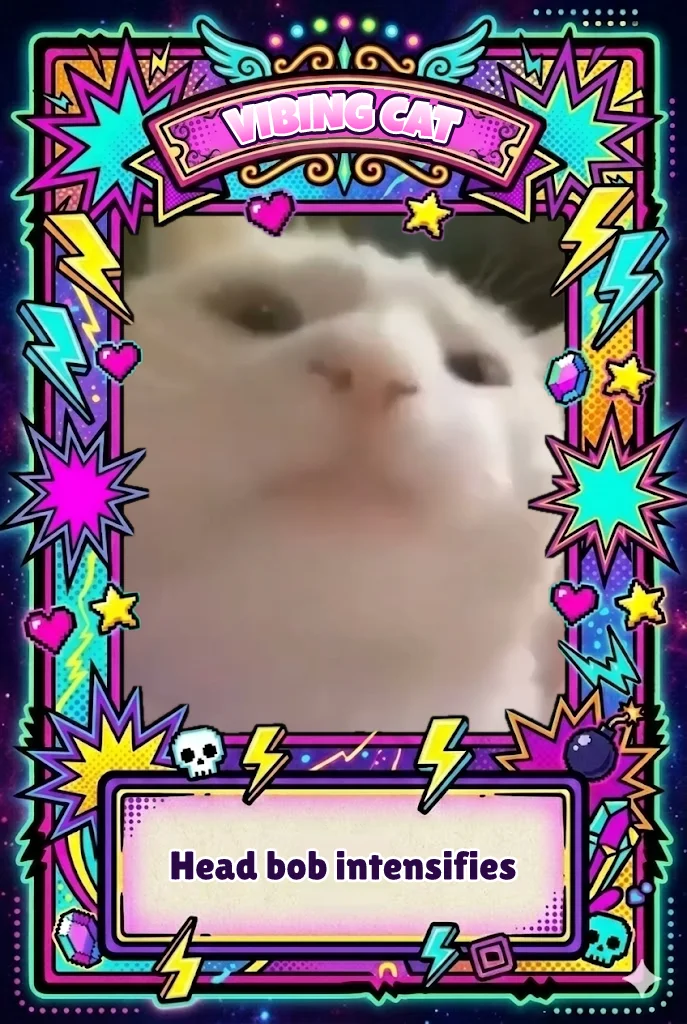
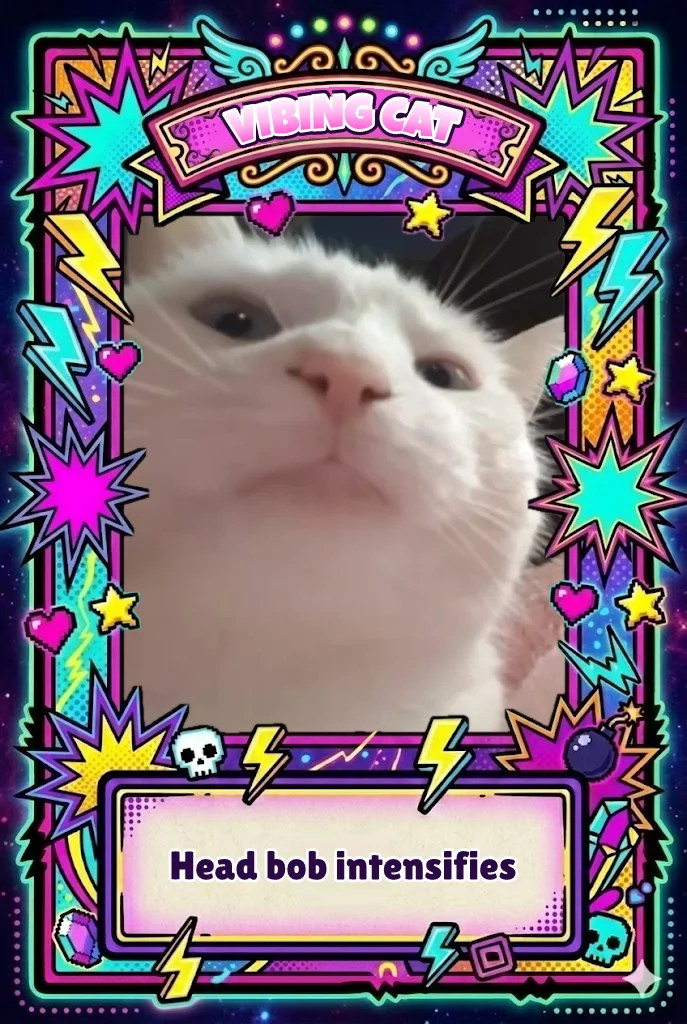
Checkpoint: rebuilt cards and credits for the flagged images
Work in progress from the image pass: rebuilt card images for the
re-cropped Bernie's Mittens, Coffin Dance, Vibing Cat and Ballerino
Lololo, the Lockdown Lore pack wrapper, and research notes and
attributions in the sets' CREDITS.md. Only the "art" descriptions in
set.json changed; set locks still hold.

Claude-Session: https://claude.ai/code/session_019EguSi8fJWokM3LRyjoEkU

Changed region(s): [[0.1834, 0.1875, 0.8253, 0.7188], [0.3362, 0.4688, 0.3668, 0.5]]

diff --git a/src/content/sets/gen-alpha-uprising/CREDITS.md b/src/content/sets/gen-alpha-uprising/CREDITS.md
@@ -6,16 +6,16 @@ the frame, title and caption. All rights stay with the owners listed below. The 
 
 | Card | Source page | Image URL | Creator / owner | Notes |
 | --- | --- | --- | --- | --- |
-| Sad Hamster (`sad-hamster`) | https://knowyourmeme.com/memes/sad-hamster | https://i.kym-cdn.com/entries/icons/original/000/048/516/Screenshot_2024-02-20_at_10.43.43_AM.jpg | The hamster is Alto, owned by Instagram user monyo_melo. The big-eyed edit and the viral video are by TikToker afexix (Feb 8, 2024) | KYM's main image, with no text. It's a screenshot of a soft video frame, so the card is slightly blurry. |
-| Side Eye Cat (`side-eye-cat`) | https://knowyourmeme.com/memes/mr-fresh-side-eye-cat | https://i.kym-cdn.com/entries/icons/original/000/048/010/side_eye_cat.jpg | Mr. Fresh, a stray on the Cat Feeder Camera livestream in the Chinese app Hello Street Cat. The first clip was posted by TikToker @catzoo1 (Oct 2023) | KYM's main image, with no text, taken from a low-res livestream. This card replaces Bombastic Side Eye (see below) and keeps its catchphrase as the caption. |
+| Sad Hamster (`sad-hamster`) | https://knowyourmeme.com/memes/sad-hamster | https://i.kym-cdn.com/entries/icons/original/000/048/516/Screenshot_2024-02-20_at_10.43.43_AM.jpg | The hamster is Alto, owned by Instagram user monyo_melo. The big-eyed edit and the viral video are by TikToker afexix (Feb 8, 2024) | KYM's main image, with no text. It's a screenshot of a soft video frame, so the card is slightly blurry. Rechecked Oct 12, 2026: afexix's original TikTok has only a 576×384 cover, so I kept this one. |
+| Side Eye Cat (`side-eye-cat`) | https://knowyourmeme.com/memes/mr-fresh-side-eye-cat | https://i.kym-cdn.com/entries/icons/original/000/048/010/side_eye_cat.jpg | Mr. Fresh, a stray on the Cat Feeder Camera livestream in the Chinese app Hello Street Cat. The first clip was posted by TikToker @catzoo1 (Oct 2023) | KYM's main image, with no text, taken from a low-res livestream. This card replaces Bombastic Side Eye (see below) and keeps its catchphrase as the caption. Rechecked Oct 12, 2026: the 1920×1080 cover of @catzoo1's TikTok shows a different moment (the cat facing the camera, no side-eye), so I kept this one. |
 | Pesto the Penguin (`pesto-the-penguin`) | https://knowyourmeme.com/memes/pesto-the-penguin | https://i.kym-cdn.com/entries/icons/original/000/051/466/pesto_the_penguin.jpg | Pesto lives at SEA LIFE Melbourne Aquarium. The photographer isn't credited on KYM (probably the aquarium or press) | KYM's main photo, cropped to Pesto's head and body. Searches found no trademark claims or takedowns (unlike Moo Deng). |
-| Ok I Pull Up (`ok-i-pull-up`) | https://knowyourmeme.com/memes/ok-i-pull-up | https://i.kym-cdn.com/entries/icons/original/000/038/124/pullupcover.jpg | JoeJoe the capybara, from a 2014 Crazy Cody's Creatures YouTube video. The song is Don Toliver's "After Party" (2020) | KYM's main image. I cropped inside its white side bars. The source is a low-res video frame, so the crop is only 490×574 and soft. |
-| Huh Cat (`huh-cat`) | https://knowyourmeme.com/memes/huh-cat | https://i.kym-cdn.com/entries/icons/original/000/046/895/huh_cat.jpg | Ben (BenChonkyCat), owned by TikToker @planetvenus500 | KYM's main image. I cropped above its yellow "HUH?" caption, so the card has no text. The source is a soft video frame. |
+| Ok I Pull Up (`ok-i-pull-up`) | https://knowyourmeme.com/memes/ok-i-pull-up | https://i.kym-cdn.com/entries/icons/original/000/038/124/pullupcover.jpg | JoeJoe the capybara, from a 2014 Crazy Cody's Creatures YouTube video. The song is Don Toliver's "After Party" (2020) | KYM's main image. I cropped inside its white side bars. The source is a low-res video frame, so the crop is only 490×574 and soft. Rechecked Oct 12, 2026: the original upload ("Driving", Crazy Cody's Creatures, https://www.youtube.com/watch?v=lP0GNfWSW30) has a sharp 1280×720 thumbnail, but it's a different moment from the meme frame and shows the owner, so I kept the meme frame. |
+| Huh Cat (`huh-cat`) | https://knowyourmeme.com/memes/huh-cat | https://i.kym-cdn.com/entries/icons/original/000/046/895/huh_cat.jpg | Ben (BenChonkyCat), owned by TikToker @planetvenus500 | KYM's main image. I cropped above its yellow "HUH?" caption, so the card has no text. The source is a soft video frame. Rechecked Oct 12, 2026: the owner's TikTok covers are other, wider shots with text, so I kept this one. |
 | Gegagedigedagedago (`gegagedigedagedago`) | https://knowyourmeme.com/memes/roblox-chicken-nugget-gegagedigedagedago | https://i.kym-cdn.com/entries/icons/original/000/048/253/nug.jpg | The Roblox chicken nugget videos are by TikToker @wenonugget ("Leader Omega Nugget"). The Roblox "Man Face" belongs to Roblox Corporation. The gibberish "Cotton Eye Joe" cover is by TikToker @razioff | KYM's main image, with no text. The crop is 462×541. |
-| Dancing Toothless (`dancing-toothless`) | https://knowyourmeme.com/memes/dancing-toothless | https://i.kym-cdn.com/entries/icons/original/000/047/760/dt.jpg | Animation by Cas van de Pol ("The Ultimate 'How To Train Your Dragon' Recap Cartoon", Dec 9, 2023). Toothless belongs to DreamWorks Animation | KYM's main image, a frame from the animation with no text. I found no lawsuits or takedowns. In Jan 2024, though, van de Pol publicly asked Riot Games to credit or pay him for a traced commercial copy, so credit him in any release. |
+| Dancing Toothless (`dancing-toothless`) | https://knowyourmeme.com/memes/dancing-toothless | https://i.kym-cdn.com/entries/icons/original/000/047/760/dt.jpg | Animation by Cas van de Pol ("The Ultimate 'How To Train Your Dragon' Recap Cartoon", Dec 9, 2023). Toothless belongs to DreamWorks Animation | KYM's main image, a frame from the animation with no text. I found no lawsuits or takedowns. In Jan 2024, though, van de Pol publicly asked Riot Games to credit or pay him for a traced commercial copy, so credit him in any release. **Checked Oct 12, 2026: keep.** His complaint was about a brand using his animation without credit, and this free card credits him. **Attribution:** Animation by Cas van de Pol (X: @knOnker), from "The Ultimate 'How To Train Your Dragon' Recap Cartoon" (https://www.youtube.com/watch?v=4dDUWRWqcIo, Dec 9, 2023). Cropped. Toothless © DreamWorks Animation. |
 | Pedro Raccoon (`pedro-raccoon`) | https://knowyourmeme.com/memes/raccoon-dancing-in-a-circle-pedro-pedro-pedro | https://i.kym-cdn.com/entries/icons/original/000/049/273/cover11.jpg | The raccoon video is by TikToker @fleksa30 (Sept 2023). The song is an EDM remix of Raffaella Carrà's "Pedro" | KYM's main image: the round TikTok circle video on black, with no text. |
-| Low Taper Fade (`low-taper-fade`) | https://knowyourmeme.com/photos/2735702-imagine-if-ninja-got-a-low-taper-fade (entry: https://knowyourmeme.com/memes/imagine-if-ninja-got-a-low-taper-fade) | https://i.kym-cdn.com/photos/images/original/002/735/702/1e5.jpeg | A viral fan photoshop of streamer Richard Tyler "Ninja" Blevins, by an unknown creator. The audio is ericdoa's Twitch freestyle (Jan 5, 2024) | This is the clean, full-size version of the middle panel in KYM's header. Ninja is a public figure, and this is his meme moment: he reacted to the meme, got the haircut on Jan 13, 2024 and kept calling it "still massive." It is still an edited photo of a real person, so recheck it before release. |
-| Smurf Cat (`smurf-cat`) | https://knowyourmeme.com/photos/2652421-smurf-cat (entry: https://knowyourmeme.com/memes/smurf-cat) | https://i.kym-cdn.com/photos/images/original/002/652/421/280.jpg | Nate Hallinan, concept art "Smurf Sighting" (2011–2014). The meme comes from TikToker @ghojam1's slideshows (Aug 2023). The Smurfs belong to Peyo Company (formerly I.M.P.S.) | This is the square TikTok crop the meme used, with no text. The original from KYM's gallery carries a NATEHALLINAN.COM watermark, so I didn't use it. I found no takedowns or lawsuits over Smurf Cat. I.M.P.S. has said it will take legal action against Smurf misuse on social media, but that statement was about political and AI posts, not this meme. Recheck before release. |
+| Low Taper Fade (`low-taper-fade`) | https://knowyourmeme.com/photos/2735702-imagine-if-ninja-got-a-low-taper-fade (entry: https://knowyourmeme.com/memes/imagine-if-ninja-got-a-low-taper-fade) | https://i.kym-cdn.com/photos/images/original/002/735/702/1e5.jpeg | A viral fan photoshop of streamer Richard Tyler "Ninja" Blevins, by an unknown creator. The audio is ericdoa's Twitch freestyle (Jan 5, 2024) | This is the clean, full-size version of the middle panel in KYM's header. Ninja is a public figure, and this is his meme moment: he reacted to the meme, got the haircut on Jan 13, 2024 and kept calling it "still massive." **Checked Oct 12, 2026: keep.** He has embraced the edit and kept joking about it on his own channels, I found no takedown or complaint over it, and it's an obvious joke edit rather than a misleading photo. |
+| Smurf Cat (`smurf-cat`) | https://knowyourmeme.com/photos/2652421-smurf-cat (entry: https://knowyourmeme.com/memes/smurf-cat) | https://i.kym-cdn.com/photos/images/original/002/652/421/280.jpg | Nate Hallinan, concept art "Smurf Sighting" (2011–2014). The meme comes from TikToker @ghojam1's slideshows (Aug 2023). The Smurfs belong to Peyo Company (formerly I.M.P.S.) | This is the square TikTok crop the meme used, with no text. The original from KYM's gallery carries a NATEHALLINAN.COM watermark, so I didn't use it. I found no takedowns or lawsuits over Smurf Cat. I.M.P.S. has said it will take legal action against Smurf misuse on social media, but that statement was about political and AI posts, not this meme. **Checked Oct 12, 2026: keep.** That warning (https://www.spielwarenmesse.de/en/mag/toy-market-news/rights-holder-imps-takes-action-against-abuse-of-the-smurfs-on-social-media/) targets misuse of the Smurfs themselves, and after three years of mass use I found no claim against Smurf Cat. The card shows Hallinan's own creature, credited, with no Smurfs logo or characters. |
 | Sigma (`sigma`) | https://knowyourmeme.com/memes/patrick-bateman-walking (see also https://knowyourmeme.com/memes/sigma-males and https://knowyourmeme.com/memes/erm-what-the-sigma) | https://i.kym-cdn.com/entries/icons/original/000/036/019/American_Psycho_-_Walking_on_Sunshine_0-18_screenshot.png | Film still from *American Psycho* (2000, Lions Gate Films), with Christian Bale as Patrick Bateman | KYM's main image for "Patrick Bateman Walking," the sigma-edit frame, with no text. The Sigma Males entry's own header has "SIGMA MALES: THE LONE WOLVES" text over John Wick, and "Erm, What the Sigma?" is only a blurry video grab, so I used neither. |
 | Rizz (`rizz`) | https://knowyourmeme.com/memes/shrek-rizz | https://i.kym-cdn.com/entries/icons/original/000/050/187/4541e987-5d55-421f-968d-04f99fb6a68c-1702995843784.jpg | Film still from *Shrek the Third* (2007, DreamWorks Animation) | KYM's main image for "Shrek Rizz," with no text. The meme frame is a tight close-up, so the card is too. The main "Rizz / Unspoken Rizz" entry (https://knowyourmeme.com/memes/rizz) uses a stock-style photo of a man in a suit with caption text. Most other rizz images show streamers or the Rizzler, who is a minor. |
 

diff --git a/src/content/sets/right-now/CREDITS.md b/src/content/sets/right-now/CREDITS.md
@@ -9,16 +9,16 @@ sources are listed in the notes.
 
 | Card | Source page | Image URL | Creator / owner | Notes |
 | --- | --- | --- | --- | --- |
-| Mbappé Special (`mbappe-special`) | https://knowyourmeme.com/memes/mbappe-special | https://i.kym-cdn.com/entries/icons/original/000/057/103/Untitled_(3).jpg | Frame from Vanity Fair's July 2026 interview video with Kylian Mbappé (Condé Nast) | This is KYM's main image, a tight close-up of the face from the clip. Mbappé is a public figure, shown in his meme moment. The meme is confirmed by KYM, KYM's explainer (Jul 9) and meme.com, and it placed #5 in KYM's July 2026 poll. Mbappé fought the French federation over sponsor image rights in 2022, but I found no takedowns of memes. Recheck before any commercial use. |
+| Mbappé Special (`mbappe-special`) | https://knowyourmeme.com/memes/mbappe-special | https://i.kym-cdn.com/entries/icons/original/000/057/103/Untitled_(3).jpg | Frame from Vanity Fair's July 2026 interview video with Kylian Mbappé (Condé Nast) | This is KYM's main image, a tight close-up of the face from the clip. Mbappé is a public figure, shown in his meme moment. The meme is confirmed by KYM, KYM's explainer (Jul 9) and meme.com, and it placed #5 in KYM's July 2026 poll. Mbappé fought the French federation over sponsor image rights in 2022, but I found no takedowns of memes. **Decision Oct 12, 2026: this card must be replaced.** His company KMA actively enforces his name and image. In March 2024 its lawyer gave a Marseille influencer eight days to drop a "Mbappé" menu item or face court (https://www.espn.com/soccer/story/_/id/39722208/psg-star-kylian-mbappe-sues-kebab-maker-using-name), and he has disputed uses of his image with PSG (2023) and the French federation (2022, and again in 2026). As with Rickroll, the meme is his face and name, so no other image avoids the problem. |
 | Niu Lai (`niu-lai`) | https://knowyourmeme.com/memes/subcultures/niu-lai | https://i.kym-cdn.com/entries/icons/original/000/057/316/niulaicover.jpg | Still from the film *Niu Lai* (牛来, 2026), directed by Xin Yumeng and written by Sun Lifang; © Dalian Jingyuan Culture Film and Television Media | KYM's main image, showing the red cow hero's face. It replaces Hippo Jacuzzo (see below). Confirmed by KYM, Sixth Tone ("Cash Cow"), Cartoon Brew, The Jakarta Post/AFP and The Paper (澎湃). It placed #5 in KYM's August 2026 poll. |
 | Bukangi (`bukangi`) | https://www.hankyung.com/article/2026092059187 | https://img.hankyung.com/photo/202609/ZA.45759275.1.jpg | Yonhap News (사진=연합뉴스), published by The Korea Economic Daily | An aerial news photo of the shark in the Busan North Port waterfront canal. I cropped below the railing, so none of the spectators are in the image. Confirmed by Nocut News, Weekly Kyunghyang (Oct 6), YTN's fact-check (Oct 12), Busan Ilbo and SBS Biz. |
 | Huss Valley (`huss-valley`) | https://trending.knowyourmeme.com/editorials/guides/what-is-the-huss-valley-meme-the-meaning-of-the-viral-daniel-labelle-running-memes-explained | https://i.kym-cdn.com/editorials/icons/original/000/017/056/hussvalleycover2.jpg | Footage by YouTuber Daniel LaBelle (his mailman-and-dog skit from June 22, 2026); the meme edit is by unknown TikTok users | This is the left panel of KYM's explainer cover, cropped below its "huss valley" label. The deep-fried colors come from the meme edit. LaBelle is a public figure with a Wikipedia article. Confirmed by KYM, KYM's explainer (Jul 13) and Yahoo. |
 | La Peace (`la-peace`) | https://knowyourmeme.com/memes/la-peace | https://i.kym-cdn.com/entries/icons/original/000/057/326/lapeacecover1.jpg | Fan edit of streamer Kai Cenat as a sage in a Minecraft cave (editor unknown); Minecraft © Mojang/Microsoft | KYM's main image, cropped to the sage figure so the "That's la peace" text is left out. Kai Cenat is a public figure. Confirmed by KYM and Win.gg, where Cenat recreated the meme. It placed #2 in KYM's August 2026 poll. |
 | Chile Memes (`chile-memes`) | https://knowyourmeme.com/memes/chile-memes | https://i.kym-cdn.com/entries/icons/original/000/057/510/chilecover.jpg | The narrow-car-plus-map image; KYM credits Instagram's hardimages.chile (Feb 14, 2026) for this format. The compilation is by KYM | This is the middle panel of KYM's three-panel cover. The small "Chile" and "Argentina" map labels and the red arrow belong to the meme. The driver is a tiny silhouette that can't be identified. Confirmed by KYM, The Brew News and KYM's September poll (#2). |
-| Remember November (`remember-november`) | https://knowyourmeme.com/memes/remember-november-2026-is-coming | https://i.kym-cdn.com/entries/icons/original/000/057/436/rn2026.jpg | AI video by TikToker @bigbakdiskk28 (Aug 28, 2026), set to Oliver Tree's "Life Goes On" | KYM's main image, a frame of the singing bear. The source is soft, upscaled video, so the card is a little blurry. Confirmed by KYM, KYM's explainer, Yahoo and meme.com. I didn't use the cleaner 2023 "Polar Bear 2026" still (https://i.kym-cdn.com/entries/icons/original/000/046/624/_polarbear2026_.jpg) because the Jul–Oct 2026 trend is the singing bear. |
-| Steal an Egg (`steal-an-egg`) | https://www.roblox.com/games/107778070777162 (universe 10563114921) | https://tr.rbxcdn.com/180DAY-6e20c32d815e10f133df868ce114a928/512/512/Image/Png/noFilter (from thumbnails.roblox.com) | The game's official icon. © the Roblox group "and Collect Rare Pets" (verified) and DoBig Studios | The current icon as of Oct 12, 2026, which has no text. The source is 512×512, cropped to 438×512. The rbxcdn URL expires; get a fresh one from `thumbnails.roblox.com/v1/games/icons?universeIds=10563114921&size=512x512&format=Png`. Confirmed by Wikipedia, Player.One, Dexerto, MassivelyOP and the live Roblox API, which showed about 1.23M playing and 7.8B visits on Oct 12. |
+| Remember November (`remember-november`) | https://knowyourmeme.com/memes/remember-november-2026-is-coming | https://i.kym-cdn.com/entries/icons/original/000/057/436/rn2026.jpg | AI video by TikToker @bigbakdiskk28 (Aug 28, 2026), set to Oliver Tree's "Life Goes On" | KYM's main image, a frame of the singing bear. The source is soft, upscaled video, so the card is a little blurry. Confirmed by KYM, KYM's explainer, Yahoo and meme.com. I didn't use the cleaner 2023 "Polar Bear 2026" still (https://i.kym-cdn.com/entries/icons/original/000/046/624/_polarbear2026_.jpg) because the Jul–Oct 2026 trend is the singing bear. Rechecked Oct 12, 2026: the original TikTok's cover is a different, smaller frame (486×648, the bear sitting in snow), so I kept this one. |
+| Steal an Egg (`steal-an-egg`) | https://www.roblox.com/games/107778070777162 (universe 10563114921) | https://tr.rbxcdn.com/180DAY-6e20c32d815e10f133df868ce114a928/512/512/Image/Png/noFilter (from thumbnails.roblox.com) | The game's official icon. © the Roblox group "and Collect Rare Pets" (verified) and DoBig Studios | The current icon as of Oct 12, 2026, which has no text. The source is 512×512, cropped to 438×512. The rbxcdn URL expires; get a fresh one from `thumbnails.roblox.com/v1/games/icons?universeIds=10563114921&size=512x512&format=Png`. Rechecked Oct 12, 2026: that API still returns the same icon (hash `6e20c32d815e10f133df868ce114a928`), and it matches the card art pixel for pixel. The `180DAY-` link is a cache URL, so the API call is the stable way to fetch it. Confirmed by Wikipedia, Player.One, Dexerto, MassivelyOP and the live Roblox API, which showed about 1.23M playing and 7.8B visits on Oct 12. |
 | Black Cat Clapping (`black-cat-clapping`) | https://knowyourmeme.com/memes/black-cat-clapping | https://i.kym-cdn.com/entries/icons/original/000/057/571/catclapcover.jpg | AI video by Instagram user merkurianin (Aleksandr Kim), Sept 25, 2026 | KYM's main image. Confirmed by KYM, meme.com, Verge Magazine UK and creatorset's green-screen template. |
-| Verity (`verity`) | https://knowyourmeme.com/memes/subcultures/verity-minecraft-arg | https://i.kym-cdn.com/entries/icons/original/000/057/234/Verity.png | Verity (the series *Something*) © YouTuber ThatMob; Minecraft © Mojang/Microsoft | KYM's main image, showing the smiley over Minecraft grass. The source is only 800×450, so the crop is 385×450, just under the 400 px target. Confirmed by Wikipedia, KYM, Forbes (Sept 27), HuffPost UK and T-Journal. I found no takedowns. |
+| Verity (`verity`) | https://knowyourmeme.com/memes/subcultures/verity-minecraft-arg | https://i.kym-cdn.com/entries/icons/original/000/057/234/Verity.png | Verity (the series *Something*) © YouTuber ThatMob; Minecraft © Mojang/Microsoft | KYM's main image, showing the smiley over Minecraft grass. The source is only 800×450, so the crop is 385×450, just under the 400 px target. Confirmed by Wikipedia, KYM, Forbes (Sept 27), HuffPost UK and T-Journal. I found no takedowns. Rechecked Oct 12, 2026: ThatMob's own thumbnails (e.g. https://www.youtube.com/watch?v=hGBROjRqyDM) show Verity's other forms, and I found no larger copy of this smiley frame, so I kept this one. |
 | AI Rumpelstiltskin (`ai-rumpelstiltskin`) | https://www.nbcboston.com/entertainment/entertainment-news/ai-generated-rumpelstiltskin-meme/4027565/ | https://media.nbcboston.com/2026/10/Screenshot-2026-10-07-at-6.54.49-PM.png | AI clip credited to filmmaker Tatyana Tereshchenko by NBC; KYM credits the Instagram pages Stroinaya, Neuroferma and Anna Glinskaya (Aug 2026). The screenshot is from NBC News (Angela Yang, Oct 7, 2026) | This is the same frame as KYM's main image (https://i.kym-cdn.com/entries/icons/original/000/057/575/tiptoeing.jpg) in a larger copy. The imp is AI-generated, not a real person, and has an aged, moustached face. The outstretched hands are cropped. Confirmed by KYM and NBC News, which was syndicated across NBC stations. |
 | Jimothy (`jimothy`) | https://knowyourmeme.com/memes/jimothy-the-raccoon | https://i.kym-cdn.com/entries/icons/original/000/057/167/jimothycover.jpg | Video by Instagram user Kiana Hall (@c1vrgr1), July 14, 2026 | KYM's main image, a frame from the original backyard video. It shows only the raccoon. Confirmed by KYM (July 2026 Meme of the Month, 15.6%), Wikipedia and the KATV/Sinclair coverage. |
 

diff --git a/src/content/sets/italian-brainrot-deep-cuts/CREDITS.md b/src/content/sets/italian-brainrot-deep-cuts/CREDITS.md
@@ -9,10 +9,10 @@ shape. Code adds the frame, title and caption. All rights stay with the owners l
 | Card | Source page | Image URL | Creator / owner | Notes |
 | --- | --- | --- | --- | --- |
 | Gangster Footera (`gangster-footera`) | https://stealabrainrot.fandom.com/wiki/File:Gangster_Footera_Original.png (character: https://stealabrainrot.fandom.com/wiki/Gangster_Footera) | https://static.wikia.nocookie.net/stealabr/images/d/d7/Gangster_Footera_Original.png/revision/latest?cb=20250821125803 | AI image first posted on TikTok by @croco_bombo (per the Steal a Brainrot Wiki). In-game version by Steal a Brainrot | The original AI image, 496×502, with no text. Full name "Gangster Footera Criminalera". Steal a Brainrot gave it to every player whose Tung Tung Tung Sahur was removed in September 2025 (https://knowyourmeme.com/memes/events/tung-tung-tung-sahur-removed-from-steal-a-brainrot). |
-| Ballerino Lololo (`ballerino-lololo`) | https://stealabrainrot.fandom.com/wiki/File:Ballerino_lololo.webp (character: https://stealabrainrot.fandom.com/wiki/Ballerino_Lololo) | https://static.wikia.nocookie.net/stealabr/images/2/24/Ballerino_lololo.webp/revision/latest?cb=20250913002144 | AI image first posted on TikTok by @fskacca (per the Steal a Brainrot Wiki) | 600×600. The AI image the Steal a Brainrot model copies: a muscular smoothie in a tutu. The wiki file isn't labelled "Original", so it might be a repost rather than the first upload. "Ballerina Cappuccina's brother" is fan lore. |
+| Ballerino Lololo (`ballerino-lololo`) | https://www.tiktok.com/@fskacca/video/7485666478922927382 (character: https://stealabrainrot.fandom.com/wiki/Ballerino_Lololo) | The post's cover image, from TikTok's oEmbed (`thumbnail_url` of https://www.tiktok.com/oembed?url=https://www.tiktok.com/@fskacca/video/7485666478922927382; the signed tiktokcdn link it returns expires) | AI image first posted on TikTok by @fskacca, March 25, 2025 | The AI image the Steal a Brainrot model copies: a muscular smoothie in a tutu. "Ballerina Cappuccina's brother" is fan lore. **New image Oct 12, 2026:** the first pass used the wiki's unlabelled 600×600 copy (https://static.wikia.nocookie.net/stealabr/images/2/24/Ballerino_lololo.webp/revision/latest?cb=20250913002144), which might have been a repost. This is the cover of @fskacca's own first post: the same image at 1284×1599, with the post's glowing-heart effect. Cropped to 1284×1501 (only the fingertips of the raised hand are trimmed). I found nothing linking @fskacca to Mementum Lab. |
 | Trulimero Trulicina (`trulimero-trulicina`) | https://stealabrainrot.fandom.com/wiki/File:Trulimero_Trulicina_Original.png (entry: https://knowyourmeme.com/memes/trippi-troppi-trulimero-trulichina-italian-brainrot) | https://static.wikia.nocookie.net/stealabr/images/c/ce/Trulimero_Trulicina_Original.png/revision/latest?cb=20250821130406 | AI cat-fish posted on TikTok by @_goon_master_ (Feb 8, 2025; 8M+ views). Know Your Meme traces the sound to @zanahoriatan33 (Jan 28, 2025) | The original AI image, 495×517, with no text. Know Your Meme covers it in the same entry as Trippi Troppi, but it is a different character. |
 | Spijuniro Golubiro (`spijuniro-golubiro`) | https://knowyourmeme.com/memes/spijuniro-golubiro-balkan-brainrot | https://i.kym-cdn.com/entries/icons/original/000/053/661/meme_(1).jpg | AI image posted on TikTok by @dontmakemeobvious, March 15, 2025, narrated in Croatian | Know Your Meme's header puts the pigeon next to a still of PSG players celebrating. The crop keeps only the left panel with the pigeon, so no people are shown. The panel alone is about 950×1080. |
-| Chicleteira (`chicleteira-bicicleteira`) | https://stealabrainrot.fandom.com/wiki/File:Chicleteira_Bicicleteira.webp (character: https://stealabrainrot.fandom.com/wiki/Chicleteira_Bicicleteira) | https://static.wikia.nocookie.net/stealabr/images/d/d7/Chicleteira_Bicicleteira.webp/revision/latest?cb=20250908075516 | Brazilian brainrot, first posted on TikTok by @brainbenderchannel (per the Steal a Brainrot Wiki) | The original AI image, not the Roblox model. It is small (300×400, cropped to 300×350), so the card looks a little soft. The full name "Chicleteira Bicicleteira" has 24 characters, over the 22-character limit, so the title uses the short name the community uses and the caption carries the full name. |
+| Chicleteira (`chicleteira-bicicleteira`) | https://stealabrainrot.fandom.com/wiki/File:Chicleteira_Bicicleteira.webp (character: https://stealabrainrot.fandom.com/wiki/Chicleteira_Bicicleteira) | https://static.wikia.nocookie.net/stealabr/images/d/d7/Chicleteira_Bicicleteira.webp/revision/latest?cb=20250908075516 | Brazilian brainrot, first posted on TikTok by @brainbenderchannel (per the Steal a Brainrot Wiki) | The original AI image, not the Roblox model. It is small (300×400, cropped to 300×350), so the card looks a little soft. Rechecked Oct 12, 2026: the wiki's other Chicleteira files are Roblox renders, and I found no larger copy of the AI image, so I kept this one. The full name "Chicleteira Bicicleteira" has 24 characters, over the 22-character limit, so the title uses the short name the community uses and the caption carries the full name. |
 | Glorbo Fruttodrillo (`glorbo-fruttodrillo`) | https://stealabrainrot.fandom.com/wiki/File:Glorbo_Fruttodrillo_Original.png (character: https://stealabrainrot.fandom.com/wiki/Glorbo_Fruttodrillo) | https://static.wikia.nocookie.net/stealabr/images/5/5f/Glorbo_Fruttodrillo_Original.png/revision/latest?cb=20250821133354 | AI image first posted on TikTok by @glorbofruttodrillo (per the Steal a Brainrot Wiki) | The original AI image, 496×488. The crop drops the right edge, which also removes a small mark in the bottom-right corner. I added thin blurred padding at the left, top and bottom so the snout clears the frame. |
 | Tric Trac Baraboom (`tric-trac-baraboom`) | https://stealabrainrot.fandom.com/wiki/File:Tric_Trac_Baraboom_Original.png (character: https://stealabrainrot.fandom.com/wiki/Tric_Trac_Baraboom) | https://static.wikia.nocookie.net/stealabr/images/e/eb/Tric_Trac_Baraboom_Original.png/revision/latest?cb=20250821130146 | AI image by TikTok users @__chenesacc__ and @reisonbs (per the Steal a Brainrot Wiki) | The original AI image, 496×502, with no text: the zucchini creature with giant feet that the Roblox model copies. |
 | Pot Hotspot (`pot-hotspot`) | https://stealabrainrot.fandom.com/wiki/File:Original_Hotspot.png (entry: https://knowyourmeme.com/memes/hotspot-bro) | https://static.wikia.nocookie.net/stealabr/images/f/fd/Original_Hotspot.png/revision/latest?cb=20250913232506 | AI image posted on TikTok by @dytzz88, March 8, 2025 ("Anomali Hotspot", 10M+ views in two weeks) | The original image: a skeleton with a phone for a head, which matches Know Your Meme's description. Know Your Meme's header is a three-panel collage with captions, so I used the clean 1428×1442 single image. The "WiFi Signal" text on the phone is part of the original artwork. Know Your Meme calls it "Hotspot Bro"; Italian brainrot fans and Steal a Brainrot call it "Pot Hotspot". |

diff --git a/src/content/sets/web-ancients/CREDITS.md b/src/content/sets/web-ancients/CREDITS.md
@@ -11,7 +11,7 @@ are added by code. All rights stay with the owners listed below. The set is stil
 | Dramatic Chipmunk (`dramatic-chipmunk`) | https://knowyourmeme.com/photos/465629-dramatic-chipmunk (entry: https://knowyourmeme.com/memes/dramatic-chipmunk) | https://i.kym-cdn.com/photos/images/original/000/465/629/394.png | Still from the Japanese variety show *Hello! Morning* (Mini Moni segment); clip posted to YouTube by magnets99 in 2007 | This is the same head-turn frame as KYM's header, in a larger copy. I cropped inside its poster border, which removes the "DRAMATIC CHIPMUNK" text. The 2007 SD footage is blurry, so this card can't get sharper. |
 | Longcat (`longcat`) | https://knowyourmeme.com/photos/2110-longcat (entry: https://knowyourmeme.com/memes/longcat) | https://i.kym-cdn.com/photos/images/original/000/002/110/longcat.jpg | The cat is Shiro (owner: Miiko, @miyabi_2222); photo first posted anonymously on 2chan, c. 2005 | The original photo. The source is 354×640, below the 400 px target, and nothing larger turned up. The crop runs off the bottom on purpose ("never seems to end"). The racing poster and banner text are part of the original photo. |
 | Arrow to the Knee (`arrow-to-the-knee`) | https://elderscrolls.fandom.com/wiki/File:Whiterun_Hold_Guard_Skyrim.png | https://static.wikia.nocookie.net/elderscrolls/images/c/c0/Whiterun_Hold_Guard_Skyrim.png/revision/latest?cb=20141014115402 | *The Elder Scrolls V: Skyrim* © Bethesda Softworks; in-game screenshot uploaded to the Elder Scrolls Wiki (2014) | A Whiterun guard, the NPC who says the line. KYM's header (https://i.kym-cdn.com/entries/icons/original/000/007/760/ArrowInTheKnee.jpg) has caption text and is low-res, so I used this clean screenshot. |
-| Philosoraptor (`philosoraptor`) | https://knowyourmeme.com/photos/85283 (entry: https://knowyourmeme.com/memes/philosoraptor) | https://i.kym-cdn.com/photos/images/original/000/085/283/philosoraptor.jpg | Sam Smith, 2008 T-shirt design for Lonely Dinosaur | KYM's blank template. KYM reports the creator put the art under a Creative Commons non-commercial licence and is fine with meme use. Recheck before any commercial use. |
+| Philosoraptor (`philosoraptor`) | https://knowyourmeme.com/photos/85283 (entry: https://knowyourmeme.com/memes/philosoraptor) | https://i.kym-cdn.com/photos/images/original/000/085/283/philosoraptor.jpg | Sam Smith, 2008 T-shirt design for Lonely Dinosaur | KYM's blank template. KYM reports the creator put the art under a Creative Commons non-commercial licence and is fine with meme use. **Checked Oct 12, 2026: keep.** The game is free, with no ads or sales, so the non-commercial licence covers it; recheck only if that changes. **Attribution:** "Philosoraptor" by Sam Smith / Lonely Dinosaur (2008), used under the Creative Commons non-commercial licence the creator announced in a Dec 2009 email quoted by KYM (no version named): https://knowyourmeme.com/memes/philosoraptor. Cropped. |
 | Gangnam Style (`gangnam-style`) | https://knowyourmeme.com/memes/gangnam-style | https://i.kym-cdn.com/entries/icons/original/000/010/964/gangnamstyle.jpg | PSY / YG Entertainment: the official "Gangnam Style" cover art (also the YouTube thumbnail and Wikipedia's infobox image) | The cartoon PSY doing the horse dance. Cropped to him, which removes the "GANGNAM STYLE" logo and the Korean sign text. I rejected the CC photos on Commons: one shows PSY only on a video screen, the other includes backup dancers and the crowd. |
 | Me Gusta (`me-gusta`) | https://knowyourmeme.com/memes/me-gusta | https://i.kym-cdn.com/entries/icons/original/000/002/252/NoMeGusta.jpg | May Oswald (then posting as Matt), who drew it and posted it to 4chan and Reddit on March 18, 2010 | KYM's main image, with no text. Oswald has said the face "belongs to the Internet" and has never sold it. The crop is centred on the eyes so the side starbursts don't cover them, which cuts off the left edge of the head. |
 | Double Rainbow (`double-rainbow`) | https://knowyourmeme.com/memes/double-rainbow | https://i.kym-cdn.com/entries/icons/original/000/003/128/rainbow.jpg | Paul "Bear" Vasquez (YouTube: Hungrybear9562), "Yosemitebear Mountain Giant Double Rainbow 1-8-10" (January 8, 2010) | A frame from the video, cropped to both arcs. No one is in shot because Vasquez is behind the camera. The source is only 800×450 and the second arc is faint. The video's own YouTube thumbnail (https://i.ytimg.com/vi/OQSNhk5ICTI/hqdefault.jpg) is just 480×360, so I didn't use it. |
